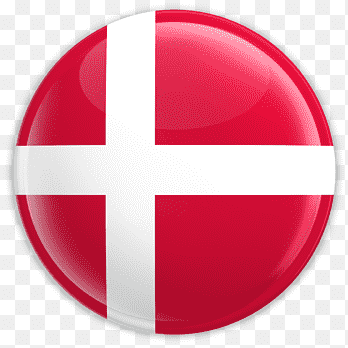
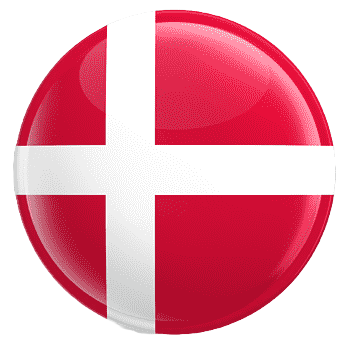
denmark flag

diff --git a/components/Site/contactCountries.jsx b/components/Site/contactCountries.jsx
@@ -40,7 +40,7 @@ export default function OurContact() {
       titlefr: "DANEMARK",
       description:
       "+4526259286",
-      img:'/denmark.webp',
+      img:'/denmarkflag.png',
       svg:<svg className="  !text-4xl !rounded-full"  width="90" height="70"  xmlns="http://www.w3.org/2000/svg"  viewBox="0 0 32 32"><rect x="1" y="4" width="30" height="24" rx="4" ry="4" fill="#fff"></rect><path d="M27,4H5c-2.209,0-4,1.791-4,4V24c0,2.209,1.791,4,4,4H27c2.209,0,4-1.791,4-4V8c0-2.209-1.791-4-4-4Zm3,20c0,1.654-1.346,3-3,3H5c-1.654,0-3-1.346-3-3V8c0-1.654,1.346-3,3-3H27c1.654,0,3,1.346,3,3V24Z" opacity=".15"></path><path fill="#4e5b31" d="M11.037 20.847L11.037 20.847 11.038 20.848 11.037 20.847z"></path><path d="M10.094,19.888c-.017,0-.034,.003-.051,.006h0c.033,.371,.301,.61,.521,.745,.148,.09,.307,.16,.473,.207-.17-.385-.361-.659-.568-.817-.162-.123-.297-.142-.362-.142-.005,0-.009,0-.013,0Z" fill="#4e5b31"></path><path d="M9.396,19.483c.181,.104,.345,.175,.438,.191,.003,0,.007,0,.01,0h0c.006,0,.012-.001,.017-.003,.007-.004,.012-.01,.015-.018,.007-.023,.007-.048,0-.07-.018-.079-.045-.155-.08-.227-.07-.158-.16-.32-.171-.339v-.002c-.091-.11-.186-.216-.286-.316-.079-.08-.165-.153-.257-.218-.101-.069-.175-.101-.245-.102-.018,0-.035,.002-.052,.008-.009,.094-.01,.189-.003,.284,.015,.209,.067,.365,.154,.464,.095,.109,.259,.233,.46,.348Z" fill="#4e5b31"></path><path d="M11.609,20.826h.001s0,0,0,0c-.141-.448-.306-.776-.491-.976-.161-.174-.307-.214-.402-.216-.006,0-.012,0-.018,0-.004,0-.008,0-.012,0-.04,.002-.078,.012-.114,.028,.144,.356,.371,.673,.662,.924,.113,.098,.239,.179,.375,.241h0Z" fill="#4e5b31"></path><path d="M9.893,20.242h0c-.011-.103-.055-.199-.127-.274-.116-.126-.364-.28-.89-.295h0c.013,.085,.037,.168,.071,.248,.051,.116,.147,.26,.317,.291,.146,.025,.293,.038,.441,.038h0c.113,0,.187-.007,.188-.007Z" fill="#4e5b31"></path><path d="M10.254,20.898c-.01,0-.019,0-.029,0-.14,.001-.279,.019-.414,.053h-.001c-.001,.015,0,.029,.001,.043,.006,.036,.02,.07,.041,.1,.048,.073,.161,.173,.423,.238,.155,.038,.314,.057,.473,.057h0c.162,0,.323-.018,.48-.056h0c-.157-.206-.382-.349-.635-.402-.112-.022-.225-.033-.339-.033Z" fill="#4e5b31"></path><path d="M13.322,21.63h0s0,0,0,0c-.234-.703-.692-.817-.944-.823-.007,0-.015,0-.022,0-.007,0-.014,0-.021,0-.052,0-.104,.007-.154,.019,.043,.129,.114,.247,.206,.346,.15,.167,.434,.382,.935,.459Z" fill="#4e5b31"></path><path d="M15.29,22.497h0s0,0,0,0c-.45-.852-.918-.944-1.1-.944-.035,0-.071,.004-.105,.012h0c-.011,.14,.026,.279,.104,.395,.123,.191,.414,.439,1.102,.538Z" fill="#4e5b31"></path><path fill="#4e5b31" d="M12.645 21.693L12.645 21.693 12.645 21.693 12.645 21.693z"></path><path d="M11.503,21.014h-.015c-.052,0-.104,.008-.154,.023h0c.008,.034,.02,.066,.036,.097,.042,.082,.099,.155,.168,.216,.162,.145,.485,.322,1.108,.344h0c-.504-.591-.932-.679-1.142-.679Z" fill="#4e5b31"></path><path d="M14.173,22.524c-.224,0-.363,.068-.439,.125-.046,.033-.085,.074-.114,.123h0s0,0,0,0c.238,.142,.51,.218,.788,.22,.259,.001,.513-.068,.735-.2-.375-.178-.7-.268-.965-.268h-.005Z" fill="#4e5b31"></path><path d="M12.133,21.864c-.02,0-.039,0-.058,0-.207,.007-.413,.034-.615,.082h0c.265,.266,.691,.36,1,.36h0s.024,0,.024,0c.168-.003,.287-.03,.354-.08,.029-.018,.045-.051,.042-.085-.014-.046-.045-.085-.086-.11-.148-.111-.37-.167-.66-.167Z" fill="#4e5b31"></path><path d="M13.217,22.211c.147,.1,.371,.15,.664,.15h0c.153-.001,.305-.012,.456-.033h0c-.364-.353-.709-.427-.936-.427-.016,0-.031,0-.046,.001-.106,.004-.21,.026-.307,.065,.004,.028,.011,.055,.023,.08,.033,.067,.083,.123,.146,.163Z" fill="#4e5b31"></path><path fill="#4e5b31" d="M20.962 20.848L20.963 20.847 20.963 20.847 20.962 20.848z"></path><path d="M19.613,21.172c.093-.099,.163-.217,.206-.346-.051-.012-.102-.018-.154-.019-.007,0-.014,0-.021,0s-.014,0-.022,0c-.252,.006-.71,.12-.944,.823h0c.501-.076,.785-.291,.935-.458Z" fill="#4e5b31"></path><path fill="#4e5b31" d="M19.355 21.693L19.355 21.693 19.355 21.693 19.355 21.693z"></path><path d="M19.355,21.693c.623-.022,.946-.199,1.108-.344,.069-.061,.126-.134,.168-.216,.016-.031,.028-.063,.036-.097h0c-.05-.015-.102-.023-.154-.023h-.015c-.21,0-.638,.088-1.142,.679h0Z" fill="#4e5b31"></path><path d="M21.436,20.64c.219-.135,.488-.374,.521-.745h0c-.017-.004-.034-.006-.051-.006-.004,0-.009,0-.013,0-.066,0-.2,.018-.362,.142-.206,.157-.397,.432-.568,.816,.166-.047,.326-.117,.473-.207Z" fill="#4e5b31"></path><path d="M22.156,19.674h0s.007,0,.01,0c.093-.016,.257-.087,.438-.191,.201-.115,.365-.239,.46-.348,.087-.099,.139-.256,.154-.464,.007-.094,.005-.189-.003-.284-.017-.005-.034-.008-.052-.008-.07,.001-.144,.033-.245,.102-.092,.065-.178,.138-.257,.218-.101,.1-.196,.205-.285,.316v.002c-.012,.019-.102,.181-.172,.339-.035,.073-.062,.149-.08,.227-.007,.023-.007,.047,0,.07,.003,.007,.008,.014,.015,.018,.005,.002,.011,.004,.017,.004Z" fill="#4e5b31"></path><path d="M19.925,21.865c-.019,0-.039,0-.058,0-.29,0-.512,.056-.66,.167-.041,.025-.072,.064-.086,.11-.003,.034,.013,.067,.042,.085,.067,.05,.186,.077,.354,.08h.024s0,0,0,0c.31,0,.735-.095,1-.36h0s0,0,0,0c-.202-.048-.407-.075-.615-.082Z" fill="#4e5b31"></path><path d="M18.598,21.901c-.227,0-.572,.074-.936,.427h0s0,0,0,0c.151,.021,.304,.032,.456,.033h0c.294,0,.517-.051,.664-.15,.063-.04,.113-.097,.146-.163,.012-.025,.02-.052,.023-.08-.098-.04-.202-.062-.307-.065-.015,0-.03-.001-.047-.001Z" fill="#4e5b31"></path><path d="M16.332,22.875l.224-.105-.12-.135-.412,.176-.024,.005-.024-.005-.412-.176-.12,.135,.224,.105,.034,.01-.554,.408h0s.083,.069,.164,.143c.036,.033,.082,.075,.114,.11,.013,.014,.026,.029,.037,.045,.007,.011,.013,.023,.018,.035h0c.005-.002,.01-.006,.014-.01l.005-.005c.022-.021,.043-.042,.063-.065,.053-.06,.123-.148,.186-.225,.123-.154,.225-.286,.244-.311l.007-.009,.007,.009c.019,.025,.121,.157,.244,.311,.062,.077,.133,.165,.186,.225,.02,.023,.041,.044,.063,.065l.005,.005s.009,.008,.014,.01h0c.006-.012,.012-.024,.018-.035,.011-.016,.024-.031,.037-.045,.032-.035,.078-.077,.114-.11,.081-.074,.163-.142,.164-.143h0s-.554-.408-.554-.408l.034-.01Z" fill="#4e5b31"></path><path d="M17.827,22.524h-.005c-.265,0-.59,.09-.965,.268,.222,.132,.476,.201,.735,.2,.277-.003,.549-.079,.788-.22h0c-.029-.049-.068-.091-.114-.123-.077-.056-.215-.124-.439-.125Z" fill="#4e5b31"></path><path d="M17.812,21.96c.078-.116,.115-.255,.104-.394h0s0,0,0,0c-.035-.008-.07-.012-.105-.012-.183,0-.65,.092-1.101,.944h0s0,0,0,0c.687-.098,.978-.346,1.102-.538Z" fill="#4e5b31"></path><path d="M22.233,19.968c-.072,.075-.116,.171-.127,.274h0s.075,.007,.188,.007h0c.148,0,.295-.012,.441-.038,.17-.031,.266-.175,.317-.291,.034-.079,.058-.162,.071-.248h0c-.526,.015-.774,.169-.89,.295Z" fill="#4e5b31"></path><path d="M21.774,20.899c-.009,0-.019,0-.029,0-.114,0-.227,.011-.339,.033-.253,.053-.479,.195-.635,.401h0s0,0,0,0c.157,.038,.318,.057,.48,.056h0c.159,0,.319-.018,.473-.056,.262-.066,.375-.166,.423-.238,.021-.03,.035-.064,.041-.1,.002-.014,.003-.028,.001-.042h-.001c-.135-.034-.275-.052-.414-.053Z" fill="#4e5b31"></path><path d="M21.314,19.633s-.008,0-.012,0c-.006,0-.012,0-.018,0-.095,.003-.241,.042-.402,.216-.185,.2-.35,.528-.491,.976h0s.001,0,.001,0h0c.136-.062,.262-.143,.375-.241,.291-.251,.518-.567,.662-.924-.036-.017-.075-.026-.114-.028Z" fill="#4e5b31"></path><path d="M27.038,7.682c-.657,.25-1.178,.473-1.824,.725-.433,.246-.903,.68-1.462,.666-.602,.259-1.428,1.108-2.328,1.237-1.56,.269-2.742,.88-4.367,.862-1.37-.252-2.808-.058-4.021-.659,.292,.809,.279,2.847-1.045,2.472-.652-.487-1.509-.401-2.072-.149-1.215,2.919-3.06-.873-2.031,1.64,.143,.499-.068,1.188,.545,1.415,.353,.183,.06,.888,.454,.952,.586,.5,1.462,.652,2.244,1.003,1.251-.156,1.765-.571,2.157,.735,1.633,.156-.661-.647,1.531-1.334,1.553,.277,2.645-.801,3.994-1.054,.394-.416,.087-1.184,.654-1.473,.537-.143,1.081,.001,1.51,.299,.43-.32,.929-.556,1.455-.314,.473,.225,.401,.198,.306-.188-.507-.774-1.423-1.285-1.476-2.067,.104-1.066,.626-.998,1.407-1.192,.425-1.278,2.308-1.373,2.961-2.416,.399-.553,1.327-.428,1.407-1.161Z" fill="#d57800"></path><path d="M27,5H5c-1.657,0-3,1.343-3,3v1c0-1.657,1.343-3,3-3H27c1.657,0,3,1.343,3,3v-1c0-1.657-1.343-3-3-3Z" fill="#fff" opacity=".2"></path></svg>
 
     },
